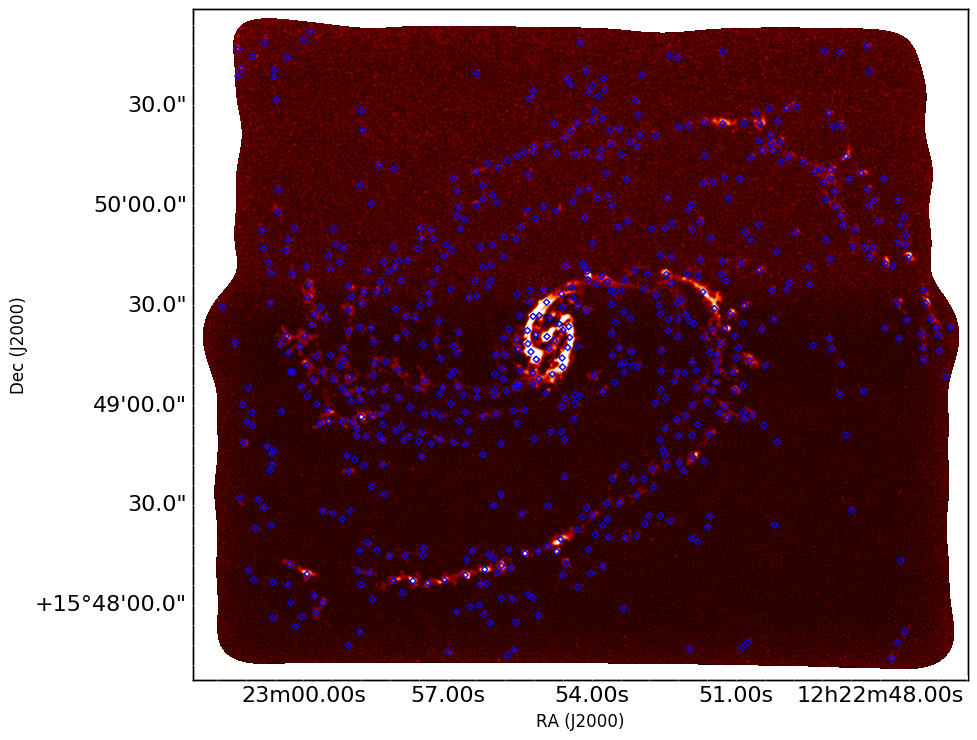
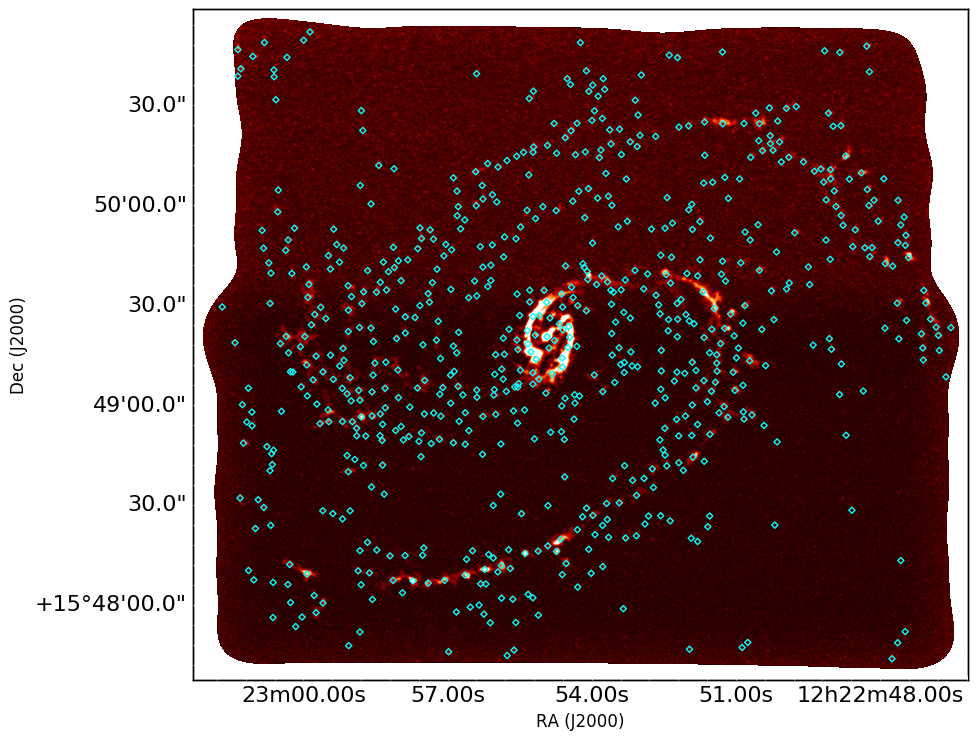
The GMC markers have been altered.

diff --git a/Code/co21_data.py b/Code/co21_data.py
@@ -219,7 +219,7 @@ n,bins,patches = plt.hist(lwo_disk,bins=50,normed=True,alpha=0.6,facecolor='gree
 mw_param = maxwell.fit(lwo_disk)
 lwo_mu = maxwell.mean(*mw_param)
 lwo_std = maxwell.std(*mw_param)
-y = np.linspace(np.min(lwo_disk),np.max(lwo_disk),1000)
+y = np.linspace(0,np.max(lwo_disk),1000)
 z = maxwell.pdf(y,*mw_param)
 plt.plot(y,z,'k--')
 mpl.rc('xtick',labelsize=16)
@@ -231,57 +231,6 @@ plt.xlabel(r'$\sigma_{o}$',fontsize=20)
 
 plt.tight_layout()
 plt.savefig('./Disk/parameter_hist.png')
-plt.close()
-
-#for galaxies grouped together by the Anderson-Darling analysis>>>>>>>>>>>>>>>>>>>>>>>>>>
-parameter_alike = plt.figure(figsize=(18,6))
-
-#alpha
-ax = plt.subplot(1,3,1)
-n,bins,patches = plt.hist(alpha_disk_alike,bins=50,normed=True,alpha=0.6,facecolor='green')
-alpha_mu = alpha_disk_alike.mean()
-alpha_std = alpha_disk_alike.std()
-y = mlab.normpdf(bins,alpha_mu,alpha_std)
-plt.plot(bins,y,'k--')
-mpl.rc('xtick',labelsize=16)
-mpl.rc('ytick',labelsize=16)
-plt.text(0.01,0.99,'(a)',ha='left',va='top',transform=ax.transAxes,fontsize=16)
-plt.text(0.99,0.99,'$\mu$ = %5.4f\n$\sigma$ = %5.4f'%(alpha_mu,alpha_std),ha='right',va='top',transform=ax.transAxes,fontsize=16)
-#plt.title('Galactic Disk Virial Parameter')
-plt.xlabel(r'$log_\mathrm{10}(\alpha)$',fontsize=20)
-
-#sigma
-ax = plt.subplot(1,3,2)
-n,bins,patches = plt.hist(sigma_disk_alike,bins=50,normed=True,alpha=0.6,facecolor='green')
-sigma_mu = sigma_disk_alike.mean()
-sigma_std = sigma_disk_alike.std()
-y = mlab.normpdf(bins,sigma_mu,sigma_std)
-plt.plot(bins,y,'k--')
-mpl.rc('xtick',labelsize=16)
-mpl.rc('ytick',labelsize=16)
-plt.text(0.01,0.99,'(b)',ha='left',va='top',transform=ax.transAxes,fontsize=16)
-plt.text(0.99,0.99,'$\mu$ = %5.4f\n$\sigma$ = %5.4f'%(sigma_mu,sigma_std),ha='right',va='top',transform=ax.transAxes,fontsize=16)
-#plt.title('Galactic Disk Surface density')
-plt.xlabel(r'$log_\mathrm{10}(\Sigma)$',fontsize=20)
-
-#lwo
-ax = plt.subplot(1,3,3)
-n,bins,patches = plt.hist(lwo_disk_alike,bins=50,normed=True,alpha=0.6,facecolor='green')
-mw_param = maxwell.fit(lwo_disk_alike)
-lwo_mu = maxwell.mean(*mw_param)
-lwo_std = maxwell.std(*mw_param)
-y = np.linspace(np.min(lwo_disk_alike),np.max(lwo_disk_alike),1000)
-z = maxwell.pdf(y,*mw_param)
-plt.plot(y,z,'k--')
-mpl.rc('xtick',labelsize=16)
-mpl.rc('ytick',labelsize=16)
-plt.text(0.01,0.99,'(c)',ha='left',va='top',transform=ax.transAxes,fontsize=16)
-plt.text(0.99,0.99,'$\mu$ = %5.4f\n$\sigma$ = %5.4f'%(lwo_mu,lwo_std),ha='right',va='top',transform=ax.transAxes,fontsize=16)
-#plt.title('Galactic Disk Normalized Linewidth')
-plt.xlabel(r'$\sigma_{o}$',fontsize=20)
-
-plt.tight_layout()
-plt.savefig('./Disk/parameter_alike.png')
 plt.close()
 
 # Star formation rate and depletion time histograms.

diff --git a/Code/analysis.py b/Code/analysis.py
@@ -104,7 +104,7 @@ def mapgmc (galaxyname,data,imgfile):
 
      # Display the image of the galaxy with markers showing the locations of the GMCs.
      img.show_colorscale(cmap='gist_heat')
-     img.show_markers(xval,yval,edgecolor='blue',marker='D',s=10,alpha=1)
+     img.show_markers(xval,yval,edgecolor='cyan',marker='D',s=10,alpha=1)
 
      # Save the figure.
      img.save('../Maps/'+galaxyname+'_map.png')
